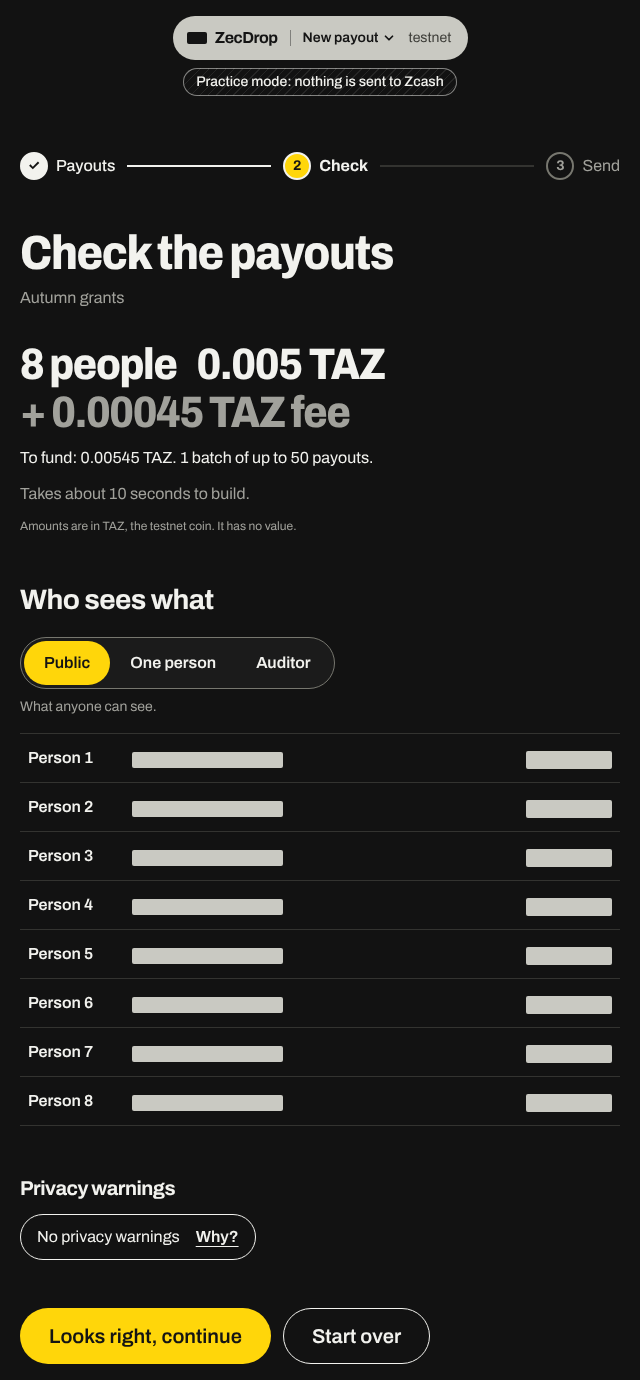
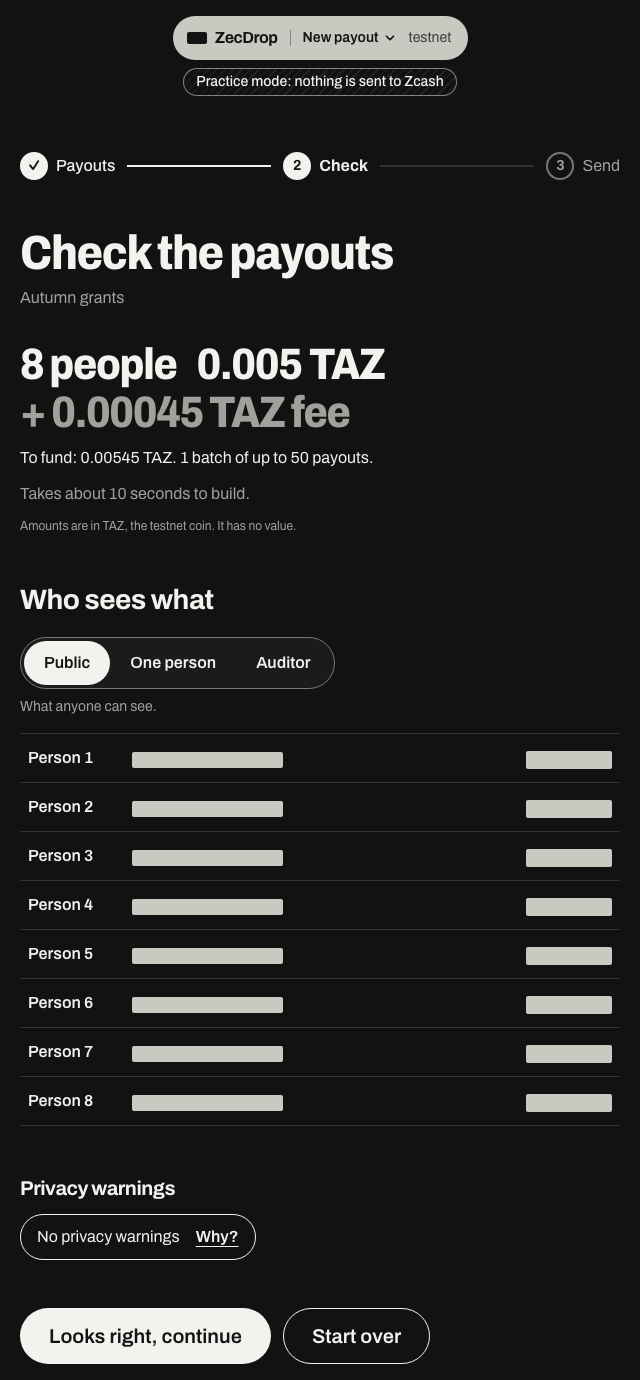
feat(web): no yellow: the look is ink alone
The owner asked for the marker yellow to go from both looks. The marker is now a grey
tint (#E0DFD8 on paper, #40403A after hours) for what is revealed and the focus ring's
halo; the dark set's action is the ink itself (off-white, black text); the capsule marks
Mainnet and the page you are on with its own colours turned over; a warning is a double
ink rule. Only "verified" and "problem" keep a hue, and colours.test.ts now fails if any
other role gets one.

The tour's pictures are taken again in the new look. The spec waits for every animation
that ends, and takes a picture that fits in the window from the window: taking the whole
page drew the capsule cut short on the funding screen. The home page's sheet has a fixed
30rem column, so a revealed address stays on one line.

Changed region(s): [[0.0312, 0.9348, 0.4375, 0.9971], [0.0312, 0.4674, 0.1875, 0.4986], [0.4375, 0.0935, 0.5, 0.1246]]

diff --git a/web/src/index.css b/web/src/index.css
@@ -1,9 +1,10 @@
 @import "tailwindcss";
 
 /* Design tokens: see web/DESIGN.md. The look is Redacted paper: a document page, black redaction
- * bars, and a marker-yellow highlighter for what is revealed and where focus is. The action is ink
- * on paper (black) and, in the dark set, the marker itself. Text is Archivo (with its width
- * axis, for the headlines) and IBM Plex Mono, both bundled. */
+ * bars, and ink alone, with no colour accent (the owner took the yellow out on 2026-10-20). What is
+ * revealed sits on a grey tint, the marker. The action is ink on paper (black) and, in the dark set,
+ * paper on ink (off-white). Text is Archivo (with its width axis, for the headlines) and IBM Plex
+ * Mono, both bundled. */
 @custom-variant dark (&:where([data-theme="dark"], [data-theme="dark"] *));
 
 @theme inline {
@@ -69,9 +70,9 @@
 
 /* ---- The colours ----------------------------------------------------------------------------
  * Redacted paper. Light is the page: a cool grey desk with a white sheet on it, ink, and black
- * redaction bars. Dark is the same page after hours: near-black, light ink, and the marker as
- * the action. The marker (a highlighter yellow) is what has been revealed and where focus is, in
- * both. Nothing in the app names a colour, it names a role; <html data-theme="dark|light">
+ * redaction bars. Dark is the same page after hours: near-black, light ink, and the ink itself as
+ * the action. The marker (a grey tint, no hue) is what has been revealed and the halo of the focus
+ * ring, in both. Nothing in the app names a colour, it names a role; <html data-theme="dark|light">
  * (src/lib/theme.ts) picks the set, and the roles below read it. src/colours.test.ts computes the
  * contrast of every pair of roles that meet in the app, in both sets, and fails below WCAG 2.2 AA
  * (text 4.5:1, a control's boundary 3:1); it also fails on a colour literal anywhere else.
@@ -81,7 +82,7 @@
  *   rule, control   hairlines, and the boundary of a control (>= 3:1)
  *   accent          the one action: its fill; accent-ink is the text on it
  *   accent-text     the accent as a TEXT colour (>= 4.5:1)
- *   marker          the highlighter: revealed text, focus; marker-ink is the text on it
+ *   marker          the tint of what is revealed, and the focus ring's halo; marker-ink is the text on it
  *   bar             the redaction bar
  *   island, island-ink, island-muted
  *                   the header capsule: the redaction bar itself, its text, and its quieter text
@@ -101,7 +102,7 @@
   --p-accent: #141414;
   --p-accent-ink: #ffffff;
   --p-accent-text: #141414;
-  --p-marker: #ffd60a;
+  --p-marker: #e0dfd8;
   --p-marker-ink: #141414;
   --p-bar: #000000;
   --p-island: #000000;
@@ -125,7 +126,7 @@
   --p-accent: #141414;
   --p-accent-ink: #ffffff;
   --p-accent-text: #141414;
-  --p-marker: #ffd60a;
+  --p-marker: #e0dfd8;
   --p-marker-ink: #141414;
   --p-bar: #000000;
   --p-island: #000000;
@@ -146,11 +147,11 @@
   --p-muted: #a1a19b;
   --p-rule: #333330;
   --p-control: #77776f;
-  --p-accent: #ffd60a;
+  --p-accent: #f2f2ee;
   --p-accent-ink: #141414;
-  --p-accent-text: #ffd60a;
-  --p-marker: #ffd60a;
-  --p-marker-ink: #141414;
+  --p-accent-text: #f2f2ee;
+  --p-marker: #40403a;
+  --p-marker-ink: #f2f2ee;
   --p-bar: #c9c9c2;
   --p-island: #c9c9c2;
   --p-island-ink: #141414;

diff --git a/web/src/components/TopBar.tsx b/web/src/components/TopBar.tsx
@@ -53,7 +53,8 @@ const chip = "inline-flex h-7 shrink-0 items-center rounded-full border px-2.5 t
 
 /** The network, in a word, on the capsule itself, so it is seen without opening anything. In practice mode there is no
  * network to name: the chip says what this is. Otherwise quiet on testnet, which is the default, and loud on mainnet,
- * where the coins are real. */
+ * where the coins are real: the capsule's colours turned over, a paper chip on the black (the strongest mark there is
+ * with no colour accent). */
 function NetworkChip({ kind }: { kind: NetworkKind }) {
   if (kind === "practice") {
     return (
@@ -64,7 +65,7 @@ function NetworkChip({ kind }: { kind: NetworkKind }) {
   }
   if (kind === "mainnet") {
     return (
-      <span data-network="mainnet" className={cn(chip, "island-chip border-island-ink/50 bg-marker text-marker-ink")}>
+      <span data-network="mainnet" className={cn(chip, "island-chip border-island-ink bg-island-ink text-island")}>
         Mainnet
       </span>
     );
@@ -82,7 +83,7 @@ function NetworkLabel({ kind }: { kind: NetworkKind }) {
     return <span className={cn(chip, "island-chip hatched border-island-ink/55 font-medium text-island-ink")}>Practice, nothing is real</span>;
   }
   if (kind === "mainnet") {
-    return <span className={cn(chip, "island-chip border-island-ink/50 bg-marker text-marker-ink")}>Zcash mainnet</span>;
+    return <span className={cn(chip, "island-chip border-island-ink bg-island-ink text-island")}>Zcash mainnet</span>;
   }
   return <span className="text-sm text-island-muted">Zcash testnet</span>;
 }
@@ -260,8 +261,8 @@ export function TopBar({ showOperatorNav, network = config.network, mock = false
                           <span
                             className={cn(
                               "island-label -mx-2.5 rounded-full px-2.5 py-0.5",
-                              // The highlighter marks where you are; the heavier type says it too, for whoever cannot tell the colours apart.
-                              isActive && "bg-marker font-extrabold text-marker-ink",
+                              // The capsule's colours turned over mark where you are; the heavier type says it too.
+                              isActive && "bg-island-ink font-extrabold text-island",
                             )}
                           >
                             {link.label}

diff --git a/web/e2e/screen.spec.ts b/web/e2e/screen.spec.ts
@@ -425,7 +425,7 @@ test.describe("what a press does, when the visitor has not asked for less motion
     expect(await button.evaluate((el) => new DOMMatrix(getComputedStyle(el).transform).f)).toBeCloseTo(-1, 0);
   });
 
-  test("a button the keyboard has focused keeps its ring (the highlighter) while the pointer is over it", async ({ page }) => {
+  test("a button the keyboard has focused keeps its ring (the grey halo of the marker) while the pointer is over it", async ({ page }) => {
     await page.goto("/get-paid");
     await expect(page.getByRole("heading", { level: 1, name: "Get paid in ZEC" })).toBeVisible();
     const link = page.getByRole("link", { name: "Zodl at zodl.com" });
@@ -433,13 +433,13 @@ test.describe("what a press does, when the visitor has not asked for less motion
     for (let i = 0; i < 3; i += 1) await page.keyboard.press("Tab");
     await expect(link).toBeFocused();
     const ring = async () => await link.evaluate((el) => getComputedStyle(el).boxShadow);
-    // The ring comes in with the press response's own timing (200ms), so it is waited for, whole: the highlighter, at full strength.
-    await expect.poll(ring, { message: "focused" }).toContain("rgb(255, 214, 10)");
+    // The ring comes in with the press response's own timing (200ms), so it is waited for, whole: the marker's halo, at full strength.
+    await expect.poll(ring, { message: "focused" }).toContain("rgb(224, 223, 216)");
     await link.hover();
-    await expect.poll(ring, { message: "focused and hovered", timeout: 3000 }).toContain("rgb(255, 214, 10)");
+    await expect.poll(ring, { message: "focused and hovered", timeout: 3000 }).toContain("rgb(224, 223, 216)");
     // And it stays: a moment later it is still the ring, not the hover's soft shadow.
     await page.waitForTimeout(400);
-    expect(await ring(), "focused and hovered, settled").toContain("rgb(255, 214, 10)");
+    expect(await ring(), "focused and hovered, settled").toContain("rgb(224, 223, 216)");
   });
 
   test("a bar shows its label when it is touched, and only its label, and puts it away when the pointer leaves", async ({ page }) => {

diff --git a/web/src/colours.test.ts b/web/src/colours.test.ts
@@ -102,15 +102,34 @@ describe("Redacted paper is complete, in both modes", () => {
     expect(colours("dark")?.["island-ink"]).toBe("#141414");
   });
 
-  it("is the look the owner chose on 2026-10-15: white sheet, black bars, a marker-yellow highlighter", () => {
+  it("is the look the owner chose on 2026-10-15, with the yellow taken out on 2026-10-20: white sheet, black bars, ink alone", () => {
     const light = colours("light");
+    const dark = colours("dark");
     expect(light?.surface).toBe("#ffffff");
     expect(light?.bar).toBe("#000000");
-    expect(light?.marker).toBe("#ffd60a");
-    // The action is ink on paper; in the dark set, where black would vanish, it is the marker.
+    // What is revealed sits on a grey tint, a little darker than the sheet in the light set and lighter in the dark one.
+    expect(light?.marker).toBe("#e0dfd8");
+    expect(dark?.marker).toBe("#40403a");
+    // The action is ink on paper; in the dark set, where black would vanish, it is paper on ink.
     expect(light?.accent).toBe(light?.ink);
-    expect(colours("dark")?.accent).toBe(colours("dark")?.marker);
-    expect(colours("dark")?.["accent-ink"]).toBe("#141414");
+    expect(dark?.accent).toBe(dark?.ink);
+    expect(dark?.["accent-ink"]).toBe("#141414");
+  });
+
+  it("has no hue but 'verified' and 'problem': every other role is a grey", () => {
+    // A warm grey's channels differ by a few steps; a colour's (the old marker yellow, #ffd60a) by hundreds.
+    const spread = (hex: string) => {
+      const [r, g, b] = [1, 3, 5].map((i) => Number.parseInt(hex.slice(i, i + 2), 16)) as [number, number, number];
+      return Math.max(r, g, b) - Math.min(r, g, b);
+    };
+    for (const m of MODES) {
+      const c = colours(m);
+      if (c === null) throw new Error(`no ${m} palette`);
+      for (const role of ROLES) {
+        if (role === "good" || role === "bad") continue;
+        expect(spread(c[role]), `${m} ${role} ${c[role]}`).toBeLessThanOrEqual(12);
+      }
+    }
   });
 });
 

diff --git a/web/e2e/operator/tour-shots.spec.ts b/web/e2e/operator/tour-shots.spec.ts
@@ -108,11 +108,20 @@ async function shoot(page: Page, id: string, look: TourLook, options: { viewport
   // No row under the pointer, so none is tinted.
   await page.mouse.move(2, 2);
   await page.waitForTimeout(400);
+  // Nothing half-way: the capsule's width follows the page's name, and a picture taken while it moves shows it cut. Every
+  // animation that ends is waited for (one that never ends, a pulse, would never be done).
+  await page.evaluate(async () => {
+    const ending = document.getAnimations().filter((a) => Number.isFinite(Number(a.effect?.getComputedTiming().endTime)));
+    await Promise.all(ending.map(async (a) => a.finished.catch(() => undefined)));
+  });
   await expectNothingSecret(page, id);
+  // A picture that fits in the window is taken from it. Taking the whole page resizes the window for a moment, and a picture
+  // taken that way once drew the header capsule cut short although the page's own measure of it was right.
+  const fits = shot.height <= (page.viewportSize()?.height ?? 0);
   const png =
     options.viewport === true
       ? await page.screenshot()
-      : await page.screenshot({ fullPage: true, clip: { x: 0, y: 0, width: TOUR_WIDTH, height: shot.height } });
+      : await page.screenshot({ fullPage: !fits, clip: { x: 0, y: 0, width: TOUR_WIDTH, height: shot.height } });
   expect(pngSize(png), `${id}: the picture is not the size tour-steps.ts says`).toEqual({ width: TOUR_WIDTH, height: shot.height });
   const file = join(outputDir(), `${id}-${look}.webp`);
   writeWebp(png, file);

diff --git a/web/src/components/TopBar.test.tsx b/web/src/components/TopBar.test.tsx
@@ -137,15 +137,15 @@ describe("opening the capsule", () => {
     for (const label of PUBLIC_LABELS) expect(within(nav).getByRole("link", { name: label })).toBeInTheDocument();
   });
 
-  it("marks the page you are on with aria-current, and the highlighter", async () => {
+  it("marks the page you are on with aria-current, and the capsule's colours turned over", async () => {
     const user = userEvent.setup();
     show({ showOperatorNav: false }, "/privacy");
     const nav = await openIsland(user);
     const current = within(nav).getAllByRole("link").filter((a) => a.getAttribute("aria-current") === "page");
     expect(current.map((a) => a.textContent)).toEqual(["How privacy works"]);
-    // The highlighter is on the label, and the heavier type says it too.
-    expect(current[0]?.firstElementChild).toHaveClass("bg-marker", "font-extrabold");
-    expect(within(nav).getByRole("link", { name: "Get paid" }).firstElementChild).not.toHaveClass("bg-marker");
+    // The label is a paper pill on the capsule, and the heavier type says it too.
+    expect(current[0]?.firstElementChild).toHaveClass("bg-island-ink", "text-island", "font-extrabold");
+    expect(within(nav).getByRole("link", { name: "Get paid" }).firstElementChild).not.toHaveClass("bg-island-ink");
   });
 
   it("marks Home only on the home page, not on every page", async () => {

diff --git a/web/e2e/island.spec.ts b/web/e2e/island.spec.ts
@@ -304,13 +304,15 @@ test.describe("the network on the capsule, with nothing opened", () => {
         expect(await chip.evaluate((el) => getComputedStyle(el).backgroundColor)).toBe("rgba(0, 0, 0, 0)");
       });
 
-      test("mainnet is a highlighter-yellow chip, from a receipt link for mainnet, on a page built for testnet", async ({ page }) => {
+      test("mainnet is a chip in the capsule's colours turned over, from a receipt link for mainnet, on a page built for testnet", async ({ page }) => {
         await page.goto(MAINNET_RECEIPT);
         const chip = island(page).locator('[data-network="mainnet"]');
         await expect(chip).toBeVisible();
         await expect(chip).toHaveText("Mainnet");
         await expect(island(page)).toHaveAccessibleName("ZecDrop Receipt Mainnet");
-        expect(await chip.evaluate((el) => getComputedStyle(el).backgroundColor)).toBe("rgb(255, 214, 10)");
+        // Paper on the black capsule: its ink as the fill, its fill as the text.
+        expect(await chip.evaluate((el) => getComputedStyle(el).backgroundColor)).toBe("rgb(242, 242, 238)");
+        expect(await chip.evaluate((el) => getComputedStyle(el).color)).toBe("rgb(0, 0, 0)");
         await expect(island(page).getByText("testnet")).toHaveCount(0);
         // And once opened, in full.
         await openIsland(page);

diff --git a/web/e2e/operator/island.spec.ts b/web/e2e/operator/island.spec.ts
@@ -63,13 +63,15 @@ test.describe("the chain, said with nothing opened", () => {
     await expect(island(page)).toHaveAttribute("aria-expanded", "false");
   });
 
-  test("a real mainnet operator: a highlighter-yellow chip on the capsule, no practice line, the network in full in the panel", async ({ page }) => {
+  test("a real mainnet operator: a chip in the capsule's colours turned over, no practice line, the network in full in the panel", async ({ page }) => {
     await chain(page, { mock: false, network: "mainnet" });
     await load(page, "/campaigns", "Payouts");
     await expect(island(page)).toHaveAccessibleName("ZecDrop Payouts Mainnet");
     const chip = island(page).locator('[data-network="mainnet"]');
     await expect(chip).toBeVisible();
-    expect(await chip.evaluate((el) => getComputedStyle(el).backgroundColor)).toBe("rgb(255, 214, 10)");
+    // Paper on the black capsule: its ink as the fill, its fill as the text.
+    expect(await chip.evaluate((el) => getComputedStyle(el).backgroundColor)).toBe("rgb(242, 242, 238)");
+    expect(await chip.evaluate((el) => getComputedStyle(el).color)).toBe("rgb(0, 0, 0)");
     await expect(page.getByRole("status")).toHaveCount(0);
     await openIsland(page);
     await expect(page.getByText("Zcash mainnet", { exact: true })).toBeVisible();

diff --git a/web/src/features/home/HomePage.tsx b/web/src/features/home/HomePage.tsx
@@ -112,7 +112,8 @@ export default function HomePage() {
         <title>ZecDrop - Pay many people, keep who got what private</title>
 
         {/* The headline and the sheet, side by side on a wide screen so the first look is seen without a scroll. */}
-        <div className="grid items-start gap-x-12 gap-y-12 lg:grid-cols-[minmax(0,6fr)_minmax(0,5fr)]">
+        {/* The sheet's column is fixed at the width where a revealed address still fits on its line. */}
+        <div className="grid items-start gap-x-12 gap-y-12 lg:grid-cols-[minmax(0,1fr)_30rem]">
           <div className="space-y-8 lg:pt-6">
             <h1 className="display text-[clamp(2.75rem,12vw,4.75rem)] leading-[0.92] text-balance [font-stretch:72%] lg:text-[clamp(4rem,6.8vw,5.75rem)]">
               <span className="block">Pay many people.</span> <span className="block">Keep who got what private.</span>{" "}

diff --git a/web/src/components/ui/button.tsx b/web/src/components/ui/button.tsx
@@ -3,7 +3,7 @@ import { cva, type VariantProps } from "class-variance-authority"
 import { cn } from "cn"
 import { Slot } from "radix-ui"
 
-// ZecDrop: restyled for web/DESIGN.md. The primary button is ink (the marker in the dark set); every
+// ZecDrop: restyled for web/DESIGN.md. The primary button is ink (off-white ink in the dark set); every
 // size is at least 44px tall, so it is a comfortable touch target.
 const buttonVariants = cva(
   "group/button press inline-flex shrink-0 items-center justify-center gap-2 rounded-full border border-transparent font-semibold whitespace-nowrap select-none disabled:pointer-events-none disabled:opacity-45 [&_svg]:pointer-events-none [&_svg]:shrink-0",

diff --git a/web/src/lib/theme.ts b/web/src/lib/theme.ts
@@ -1,7 +1,7 @@
 // How the page looks: Redacted paper, light or dark.
 //
 // The look is Redacted paper (src/index.css): a white sheet on a grey desk with black redaction
-// bars and a marker-yellow highlighter. Light is the page; the dark set is the same page after
+// bars, in ink alone (no colour accent). Light is the page; the dark set is the same page after
 // hours, for people who switch, or whose system says dark. The choice is a harmless UI convenience,
 // so it is the one thing this app keeps in localStorage (with the motion setting, motion.ts).
 // Every access is wrapped: storage can be blocked (private windows, disabled site data) and

diff --git a/web/src/components/ui/alert.tsx b/web/src/components/ui/alert.tsx
@@ -11,7 +11,7 @@ const alertVariants = cva(
         default: "border-foreground text-card-foreground",
         destructive: "border-problem text-card-foreground",
         info: "border-foreground/40 text-card-foreground",
-        warning: "border-highlighter text-card-foreground",
+        warning: "border-l-[6px] border-double border-foreground text-card-foreground",
       },
     },
     defaultVariants: {
